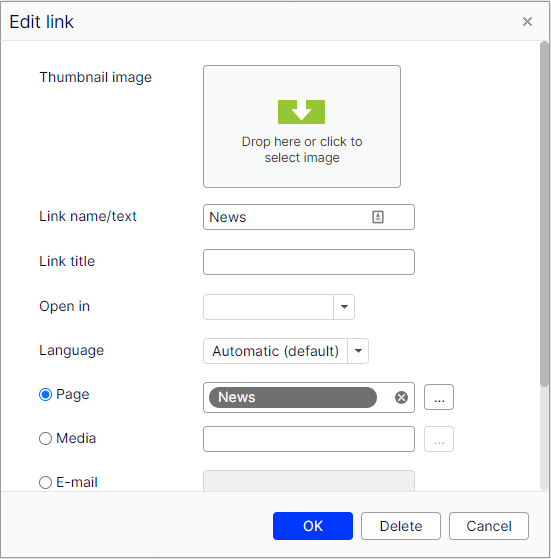
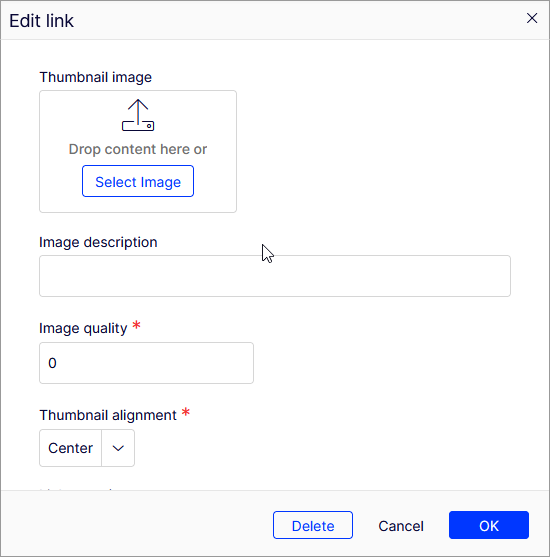
Added documentation.

diff --git a/docs/example-link-data-collection.md b/docs/example-link-data-collection.md
@@ -21,6 +21,20 @@ public class ThumbnailLinkData : LinkData
         get => GetAttribute((v) => ContentReference.Parse(v));
         set => SetAttribute(value, (v) => v.ToString());
     }
+
+    [Display(Name = "Image description", Order = 10)]
+    public virtual string ThumbnailAlt
+    {
+        get => GetAttribute();
+        set => SetAttribute(value);
+    }
+
+    [Display(Name = "Image quality", Order = 20)]
+    public virtual double ThumbnailQuality
+    {
+        get => GetAttribute(Convert.ToDouble);
+        set => SetAttribute(Convert.ToString(value));
+    }
 }
 ```
 

diff --git a/README.md b/README.md
@@ -15,6 +15,8 @@ Requires using .NET 5.0 or higher and Optimizely 12
 
 - `dotnet add package Geta.Optimizely.GenericLinks`
 
+Make sure to read the first example about implementation.
+
 ### Examples
 
 - [Example link collection with thumbnails](./docs/example-link-data-collection.md)
